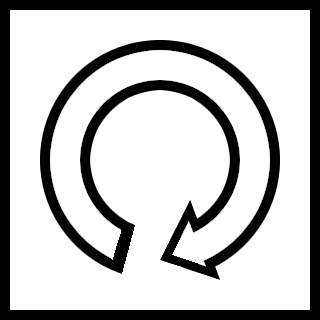
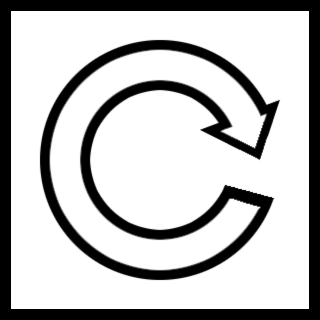
Add an endgame screen

diff --git a/core/src/com/radius/system/screens/ui/BoomGameStage.java b/core/src/com/radius/system/screens/ui/BoomGameStage.java
@@ -10,6 +10,7 @@ import com.badlogic.gdx.graphics.g2d.BitmapFont;
 import com.badlogic.gdx.graphics.g2d.TextureRegion;
 import com.badlogic.gdx.math.Vector3;
 import com.badlogic.gdx.scenes.scene2d.Stage;
+import com.badlogic.gdx.utils.Align;
 import com.badlogic.gdx.utils.viewport.Viewport;
 import com.radius.system.assets.GlobalAssets;
 import com.radius.system.assets.GlobalConstants;
@@ -22,10 +23,12 @@ import com.radius.system.events.ButtonEventListener;
 import com.radius.system.events.RestartEventListener;
 import com.radius.system.events.TimerEventListener;
 import com.radius.system.events.listeners.ButtonPressListener;
+import com.radius.system.events.listeners.EndGameEventListener;
 import com.radius.system.events.listeners.FirePathListener;
 import com.radius.system.events.listeners.MovementEventListener;
 import com.radius.system.events.listeners.StatChangeListener;
 import com.radius.system.events.parameters.ButtonPressEvent;
+import com.radius.system.events.parameters.EndGameEvent;
 import com.radius.system.events.parameters.FirePathEvent;
 import com.radius.system.events.parameters.MovementEvent;
 import com.radius.system.screens.ui.buttons.GameButton;
@@ -37,7 +40,7 @@ import java.util.HashMap;
 import java.util.List;
 import java.util.Map;
 
-public class BoomGameStage extends Stage implements ButtonPressListener {
+public class BoomGameStage extends Stage implements ButtonPressListener, EndGameEventListener {
 
     private final static float BUTTON_POSITION_Y_DIVIDER = 6f;
 
@@ -51,7 +54,7 @@ public class BoomGameStage extends Stage implements ButtonPressListener {
 
     private final BoomHUD hud;
 
-    private final GameButton aButton, bButton, pauseButton, playButton, restartButton;
+    private final GameButton aButton, bButton, pauseButton, playButton, restartButton, cancelButton;
 
     private final TimerDisplay timer;
 
@@ -59,7 +62,7 @@ public class BoomGameStage extends Stage implements ButtonPressListener {
 
     private final Texture pauseScreen, warningSign;
 
-    private final BitmapFont debugFont;
+    private final BitmapFont debugFont, winnerAnnouncement;
 
     private final MovementEvent movementEvent;
 
@@ -67,7 +70,11 @@ public class BoomGameStage extends Stage implements ButtonPressListener {
 
     private final float scale, buttonPositionMultiplier = 5f, gameButtonSize, pauseButtonSize;
 
-    private boolean isTouching, paused;
+    private float worldWidth, worldHeight;
+
+    private boolean isTouching, paused, gameConcluded;
+
+    private String conclusionMessage;
 
     private int joystickPointer = -1;
 
@@ -76,6 +83,9 @@ public class BoomGameStage extends Stage implements ButtonPressListener {
         this.scale = scale;
         this.touchVector = new Vector3(0, 0, 0);
         this.debugFont = FontUtils.GetFont((int) scale / 2, Color.WHITE, 1, Color.BLACK);
+        this.winnerAnnouncement = FontUtils.GetFont((int) scale, Color.WHITE, 4, Color.BLACK);
+        worldWidth = viewport.getWorldWidth();
+        worldHeight = viewport.getWorldHeight();
 
         this.hud = new BoomHUD(0, 0, viewport.getWorldWidth(), viewport.getWorldHeight() / 9f);
         hud.AddItem(BonusType.LIFE);
@@ -98,6 +108,7 @@ public class BoomGameStage extends Stage implements ButtonPressListener {
         this.addActor(bButton = CreateGameButton(GlobalAssets.BUTTON_B_TEXTURE_PATH, ButtonType.B, 0, viewport.getWorldHeight() / BUTTON_POSITION_Y_DIVIDER, gameButtonSize, 0.5f));
         this.addActor(playButton = CreateGameButton(GlobalAssets.BUTTON_PLAY_TEXTURE_PATH, ButtonType.PLAY, 0, 0, pauseButtonSize, 1));
         this.addActor(restartButton = CreateGameButton(GlobalAssets.BUTTON_RESTART_TEXTURE_PATH, ButtonType.RESTART, 0, 0, pauseButtonSize, 1));
+        this.addActor(cancelButton = CreateGameButton(GlobalAssets.BUTTON_CANCEL_TEXTURE_PATH, ButtonType.CANCEL, 0, 0, pauseButtonSize, 1));
 
         for (ControlKeys key: ControlKeys.values()) {
             pressedKeys.put(key, false);
@@ -119,37 +130,45 @@ public class BoomGameStage extends Stage implements ButtonPressListener {
     public void Restart() {
         timer.StartTimer(600);
         paused = false;
+        gameConcluded = false;
         SetButtonStates();
     }
 
     public void Resize() {
 
-        Viewport viewport = getViewport();
-        float width = viewport.getWorldWidth(), height = viewport.getWorldHeight();
         float pauseButtonsOffset = scale;
+        worldWidth = getViewport().getWorldWidth();
+        worldHeight = getViewport().getWorldHeight();
 
-        hud.setPosition(hud.getX(), viewport.getWorldHeight() - hud.getHeight());
-        hud.setWidth(width);
+        hud.setPosition(hud.getX(), worldHeight - hud.getHeight());
+        hud.setWidth(worldWidth);
 
-        timer.setPosition(width - timer.getWidth() * 6, height - hud.getHeight() / 2 - timer.getHeight() / 2);
+        timer.setPosition(worldWidth - timer.getWidth() * 6, worldHeight - hud.getHeight() / 2 - timer.getHeight() / 2);
 
-        pauseButton.setPosition(width - scale, height - hud.getHeight() / 2 - pauseButton.getHeight() / 2);
-        playButton.setPosition(width / 2 - pauseButtonSize - pauseButtonsOffset, height / 2 - pauseButtonSize / 2);
-        restartButton.setPosition(width / 2 + pauseButtonsOffset, height / 2 - pauseButtonSize / 2);
+        pauseButton.setPosition(worldWidth - scale, worldHeight - hud.getHeight() / 2 - pauseButton.getHeight() / 2);
 
-        aButton.setPosition(width - buttonPositionMultiplier / 2 * scale, aButton.getY());
-        bButton.setPosition(width - buttonPositionMultiplier * scale, bButton.getY());
+        playButton.setPosition(worldWidth / 2 - pauseButtonSize - pauseButtonsOffset, worldHeight / 2 - pauseButtonSize / 2);
+        restartButton.setPosition(worldWidth / 2 + pauseButtonsOffset, worldHeight / 2 - pauseButtonSize / 2);
+        if (gameConcluded) {
+            restartButton.setPosition(playButton.getX(), playButton.getY());
+        }
+        cancelButton.setPosition(worldWidth / 2 + pauseButtonsOffset, worldHeight / 2 - pauseButtonSize / 2);
+
+        aButton.setPosition(worldWidth - buttonPositionMultiplier / 2 * scale, aButton.getY());
+        bButton.setPosition(worldWidth - buttonPositionMultiplier * scale, bButton.getY());
 
         joystick.SetPosition( 2.5f * scale, 2.5f * scale, true);
     }
 
     private void SetButtonStates() {
-        aButton.setVisible(!paused);
-        bButton.setVisible(!paused);
-        pauseButton.setVisible(!paused);
+        aButton.setVisible(!paused && !gameConcluded);
+        bButton.setVisible(!paused && !gameConcluded);
+        pauseButton.setVisible(!paused && !gameConcluded);
 
         playButton.setVisible(paused);
-        restartButton.setVisible(paused);
+        restartButton.setVisible(paused || gameConcluded);
+        cancelButton.setVisible(gameConcluded);
+        Resize();
     }
 
     private boolean ProcessKeyInput(ControlKeys currentKey, float directionality, boolean isPressed) {
@@ -212,7 +231,7 @@ public class BoomGameStage extends Stage implements ButtonPressListener {
     }
 
     public boolean IsPaused() {
-        return paused;
+        return paused || gameConcluded;
     }
 
     @Override
@@ -230,19 +249,26 @@ public class BoomGameStage extends Stage implements ButtonPressListener {
         batch.setProjectionMatrix(getCamera().combined);
         batch.begin();
 
-        if (paused) {
+        if (paused || gameConcluded) {
             DrawPausedOverlay(batch);
+            DrawConclusionMessage(batch);
         }
 
         batch.end();
         super.draw();
 
         batch.begin();
-        if (!paused) {
+        if (!paused && !gameConcluded) {
             DrawJoystick(batch);
         }
 
         batch.end();
+    }
+
+    private void DrawConclusionMessage(Batch batch) {
+        if (gameConcluded) {
+            winnerAnnouncement.draw(batch, conclusionMessage, worldWidth / 2, worldHeight - scale * 1.5f, scale, Align.center, false);
+        }
     }
 
     private void DrawJoystick(Batch batch) {
@@ -384,6 +410,17 @@ public class BoomGameStage extends Stage implements ButtonPressListener {
             default:
                 FireButtonEvent(event);
         }
+    }
+
+    @Override
+    public void OnEndGameTrigger(EndGameEvent event) {
+        gameConcluded = true;
+        if (event.playerName != null) {
+            conclusionMessage = event.playerName + " is the last one standing!   ";
+        } else {
+            conclusionMessage = GlobalConstants.TIED_MESSAGE;
+        }
+        SetButtonStates();
     }
 
     private void FireButtonEvent(ButtonPressEvent event) {

diff --git a/core/src/com/radius/system/states/GameState.java b/core/src/com/radius/system/states/GameState.java
@@ -9,10 +9,13 @@ import com.radius.system.controllers.HumanPlayerController;
 import com.radius.system.controllers.BoomPlayerController;
 import com.radius.system.enums.BoardRep;
 import com.radius.system.events.RestartEventListener;
+import com.radius.system.events.listeners.EndGameEventListener;
+import com.radius.system.events.parameters.EndGameEvent;
 import com.radius.system.objects.blocks.Block;
 import com.radius.system.objects.blocks.Bonus;
 import com.radius.system.objects.blocks.HardBlock;
 import com.radius.system.objects.blocks.SoftBlock;
+import com.radius.system.objects.players.Player;
 import com.radius.system.objects.players.PlayerConfig;
 
 import java.util.ArrayList;
@@ -31,10 +34,15 @@ public class GameState implements Disposable, RestartEventListener {
 
     private final List<BoomPlayerController> controllers = new ArrayList<>();
 
+    private final List<EndGameEventListener> endGameEventListeners = new ArrayList<>();
+
+    private final EndGameEvent endGameEvent;
+
     private int mainPlayer = -1;
 
     public GameState() {
         boardState = new BoardState((int) WORLD_WIDTH, (int) WORLD_HEIGHT, (int) WORLD_SCALE);
+        endGameEvent = new EndGameEvent();
     }
 
     public void AddPlayers(List<PlayerConfig> configs) {
@@ -138,6 +146,30 @@ public class GameState implements Disposable, RestartEventListener {
         for (BoomPlayerController controller : controllers) {
             controller.Update(delta);
         }
+
+        if (!ContinueGame()) {
+            FireEndGameEvent();
+        }
+    }
+
+    public boolean ContinueGame() {
+        boolean hasOneAlive = false;
+        for (BoomPlayerController controller : controllers) {
+            Player player = controller.GetPlayer();
+            if (player.GetRemainingLife() >= 0 && player.IsAlive()) {
+                if (!hasOneAlive) {
+                    hasOneAlive = true;
+                    endGameEvent.playerName = player.name;
+                } else {
+                    // Return true as there are still more than one player alive.
+                    endGameEvent.playerName = null;
+                    return true;
+                }
+            }
+        }
+
+        // The game is to be terminated.
+        return false;
     }
 
     public void Draw(Batch batch) {
@@ -164,5 +196,16 @@ public class GameState implements Disposable, RestartEventListener {
     @Override
     public void OnRestart() {
         RestartField();
+    }
+
+    public void AddEndGameEventListener(EndGameEventListener listener) {
+        if (endGameEventListeners.contains(listener)) return;
+        endGameEventListeners.add(listener);
+    }
+
+    private void FireEndGameEvent() {
+        for (EndGameEventListener listener : endGameEventListeners) {
+            listener.OnEndGameTrigger(endGameEvent);
+        }
     }
 }

diff --git a/core/src/com/radius/system/objects/players/Player.java b/core/src/com/radius/system/objects/players/Player.java
@@ -154,7 +154,9 @@ public class Player extends Entity implements FirePathListener {
 
     public final int id;
 
-    private String name, spritePath;
+    public final String name;
+
+    private String spritePath;
 
     private final BitmapFont playerNameFont;
 
@@ -192,7 +194,6 @@ public class Player extends Entity implements FirePathListener {
 
     public void Reset() {
 
-        this.name = godmode ? "Zero" : "Player" + (id + 1);
         if (godmode) {
             this.spritePath = "img/player_5.png";
         }
@@ -364,6 +365,10 @@ public class Player extends Entity implements FirePathListener {
 
         burnRect.setPosition(x + fixedThinWidth / fixedDividerOffset, y + fixedThinHeight / fixedDividerOffset);
         collisionRect.setPosition(x - fixedThinWidth / (fixedDividerCoordinator * fixedDividerOffset), y - fixedThinHeight / (fixedDividerCoordinator * fixedDividerOffset));
+    }
+
+    public int GetRemainingLife() {
+        return life;
     }
 
     public int GetFirePower() {
@@ -704,7 +709,7 @@ public class Player extends Entity implements FirePathListener {
             DrawFireNotification(batch);
         }
 
-        playerNameFont.draw(batch, name, position.x * size.x, position.y * size.y, scale, Align.center, false);
+        playerNameFont.draw(batch, "[" + GetRemainingLife() + "]", position.x * size.x, position.y * size.y, scale, Align.center, false);
     }
 
     @Override

diff --git a/core/src/com/radius/system/screens/GameScreen.java b/core/src/com/radius/system/screens/GameScreen.java
@@ -72,6 +72,7 @@ public class GameScreen extends AbstractScreen implements ButtonPressListener {
 
     private void InitializeEvents() {
         stage.AddButtonPressListener(this);
+        gameState.AddEndGameEventListener(stage);
         HumanPlayerController controller = gameState.GetMainController();
         if (controller == null) {
             float newZoom = ComputeZoomValue();

diff --git a/core/src/com/radius/system/assets/GlobalAssets.java b/core/src/com/radius/system/assets/GlobalAssets.java
@@ -35,6 +35,8 @@ public class GlobalAssets {
 
     public static final String BUTTON_RESTART_TEXTURE_PATH = "img/restart.png";
 
+    public static final String BUTTON_CANCEL_TEXTURE_PATH = "img/cancel.png";
+
     public static final String BACKGROUND_TEXTURE_PATH = "img/background.png";
 
     public static final String WARNING_SIGN_PATH = "img/warning_sign.png";

diff --git a/core/src/com/radius/system/assets/GlobalConstants.java b/core/src/com/radius/system/assets/GlobalConstants.java
@@ -12,6 +12,8 @@ public class GlobalConstants {
 
     public static final int WORLD_AREA = (int)(WORLD_WIDTH * WORLD_HEIGHT);
 
+    public static final String TIED_MESSAGE = "Every one has lost!";
+
     public static boolean DEBUG = false;
 
     public static boolean GODMODE = false;

diff --git a/core/src/com/radius/system/events/listeners/EndGameEventListener.java b/core/src/com/radius/system/events/listeners/EndGameEventListener.java
@@ -1,0 +1,9 @@
+package com.radius.system.events.listeners;
+
+import com.radius.system.events.parameters.EndGameEvent;
+
+public interface EndGameEventListener {
+
+    void OnEndGameTrigger(EndGameEvent event);
+
+}

diff --git a/core/src/com/radius/system/enums/ButtonType.java b/core/src/com/radius/system/enums/ButtonType.java
@@ -7,7 +7,9 @@ public enum ButtonType {
     B(1),
     PAUSE(2),
     PLAY(3),
-    RESTART(4);
+    RESTART(4),
+
+    CANCEL(5);
 
     private final int id;
 

diff --git a/core/src/com/radius/system/events/parameters/EndGameEvent.java b/core/src/com/radius/system/events/parameters/EndGameEvent.java
@@ -1,0 +1,7 @@
+package com.radius.system.events.parameters;
+
+public class EndGameEvent {
+
+    public String playerName;
+
+}
